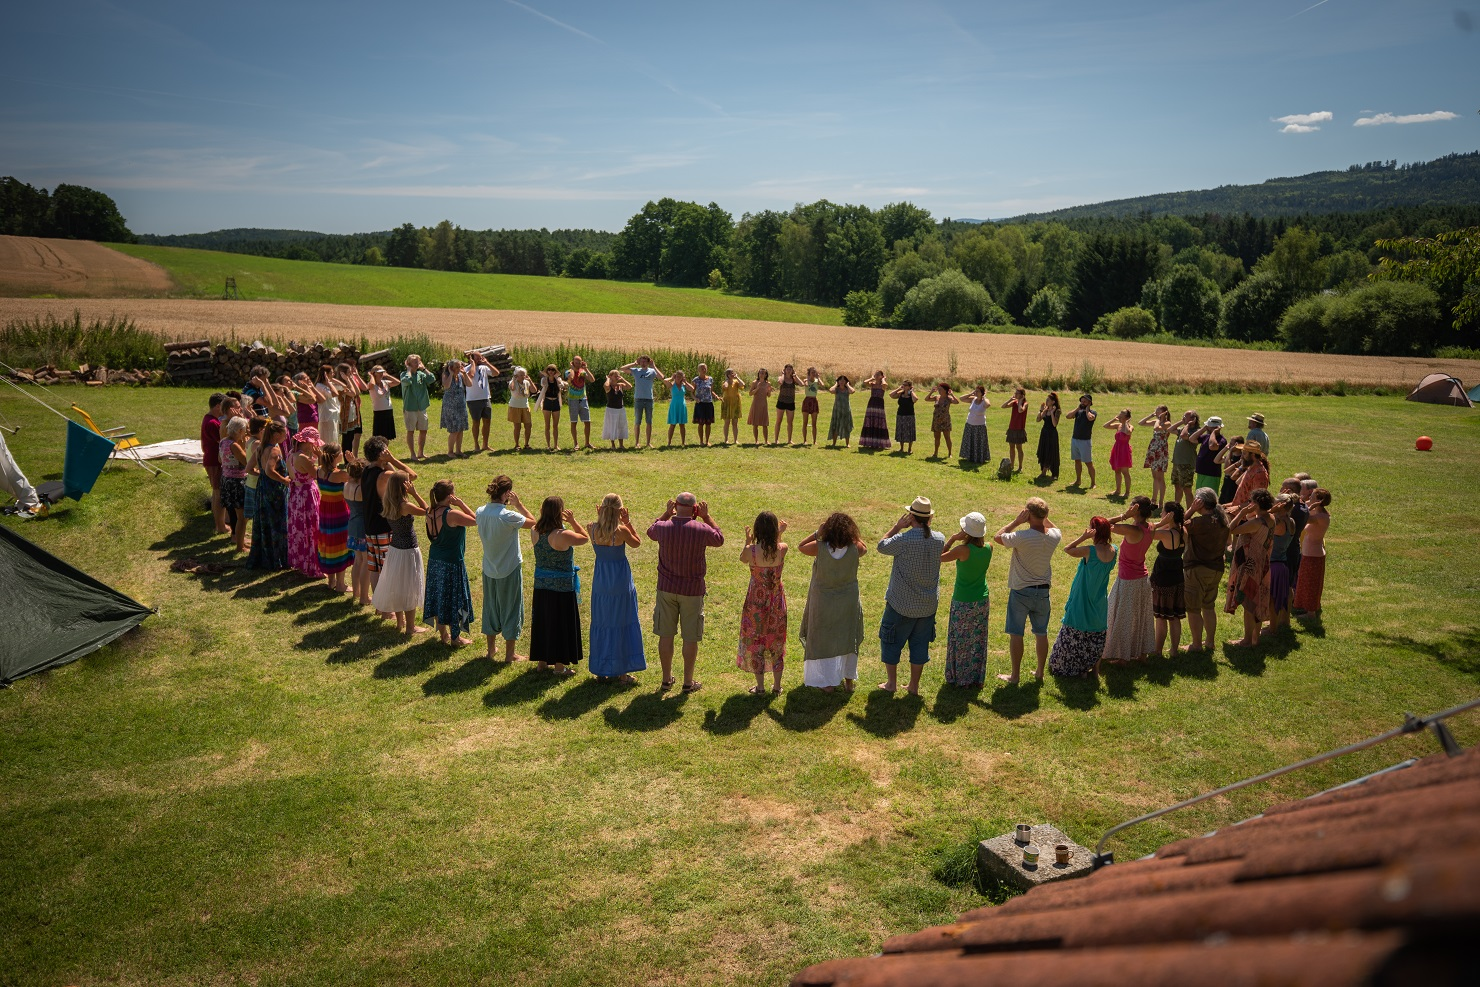
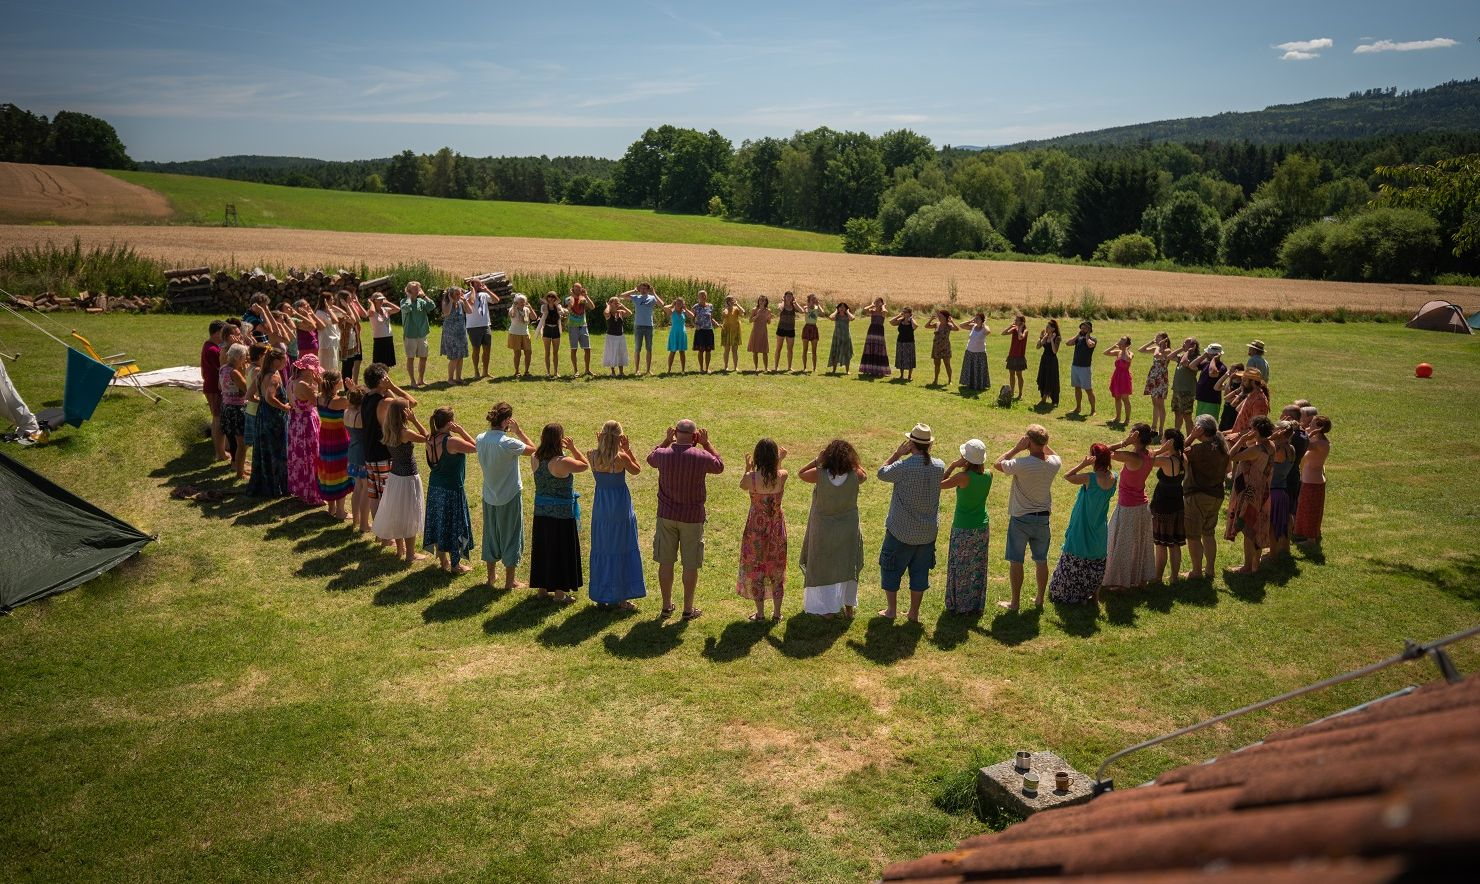
RD - header image

diff --git a/web/dance_web/static/css/homepage.css b/web/dance_web/static/css/homepage.css
@@ -1,13 +1,16 @@
 /* Header */
-.header-image {
+.header-image-container {
     position: relative;
     width: 100%;
-    height: 987px;
-    background-image: url("/static/images/kruh.jpg");
-    background-size: 100%;
-    background-repeat: no-repeat;
-    z-index: 0;
+    height: 884px;
     margin-top: -110px;
+    overflow: hidden;
+}
+
+.header-image {
+    width: 100%;
+    height: auto;
+    object-fit: cover;
 }
 
 .header-text {
@@ -22,13 +25,13 @@
 }
 
 .first-line {
-  display: block;
-  text-align: left;
+    display: block;
+    text-align: left;
 }
 
 .second-line {
-  display: block;
-  text-align: right; 
+    display: block;
+    text-align: right;
 }
 
 
@@ -74,7 +77,7 @@
 
 .text1 {
     position: relative;
-    font-family: 'Raleway', sans-serif; 
+    font-family: 'Raleway', sans-serif;
     font-size: 1em;
     text-align: left;
     width: 400px;
@@ -172,8 +175,8 @@
 .button {
 }
 
-.button:hover {
-}
+    .button:hover {
+    }
 
 /* Workshop card */
 .workshop-card {
@@ -274,4 +277,25 @@
 .workshop-lector-name {
     display: inline-block;
     vertical-align: middle
+}
+
+@media (max-width: 1492px) {
+    .header-image {
+        width: auto;
+        height: 100%;
+        position: absolute;
+        top: 50%;
+        left: 50%;
+        transform: translate(-50%, -50%);
+    }
+}
+
+@media (min-width: 1921px) {
+    .header-image {
+        width: 100%;
+        height: auto;
+        position: absolute;
+        top: 64%;
+        transform: translate(-50%, -50%);
+    }
 }

diff --git a/web/dance_web/static/css/base.css b/web/dance_web/static/css/base.css
@@ -41,7 +41,7 @@ a {
 .header {
     position: relative;
     width: 100%;
-    background-color: rgb(2,47,66,0.3);
+    background-color: #022F424D;
     text-align: center;
     z-index: 1;
 }
@@ -71,44 +71,14 @@ a {
     margin-left: 40px;
 }
 
-.menu-item a {
-    color: #ffffff;
-}
-
-/* .header {
-    width: 100%;
-    background-color: #022F42;
-    padding: 10px 0;
-}
-
-.logo {
-    position: relative;
-    top: 20px;
-    left: -550px;
-}
-
-.menu {
-    list-style-type: none;
-    margin: 0;
-    padding: 0;
-    right: 0;
-    font-family: 'Ysabeau SC', sans-serif;
-    font-size: 1.5em;
-    color: #022F42;
-    position: relative;
-    right: -460px;
-    top: -40px
-}
-
-.menu a {
-    text-decoration: none;
-    color: white;
-}*/
+    .menu-item a {
+        color: #ffffff;
+    }
 
 .menu a:hover {
     text-decoration: underline;
     color: #67F0FC;
-} 
+}
 
 .footer {
     background: linear-gradient(to top, #022F42, #FFF8F0);
@@ -129,3 +99,16 @@ a {
     color: #ffffff;
     padding-top: 50px;
 }
+
+@media (max-width: 750px) {
+    .menu {
+        display: none;
+    }
+}
+
+@media (min-width: 2300px) {
+    .header {
+        background-color: #022F42F0;
+    }
+}
+

diff --git a/web/dance_web/templates/homepage.html b/web/dance_web/templates/homepage.html
@@ -10,7 +10,8 @@
 {% endblock %}
 
 {% block content %}
-<div class="header-image">
+<div class="header-image-container">
+    <img class="header-image" src="static/images/kruh.jpg">
     <div class="header-text">
         <span class="first-line">„UMÍŠ-LI MLUVIT, UMÍŠ ZPÍVAT,</span> <br>
         <span class="second-line">UMÍŠ-LI CHODIT, UMÍŠ TANČIT...“</span>
